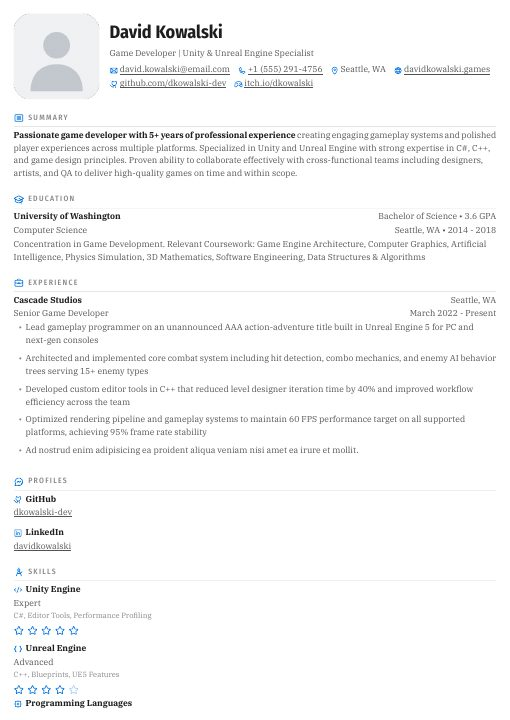
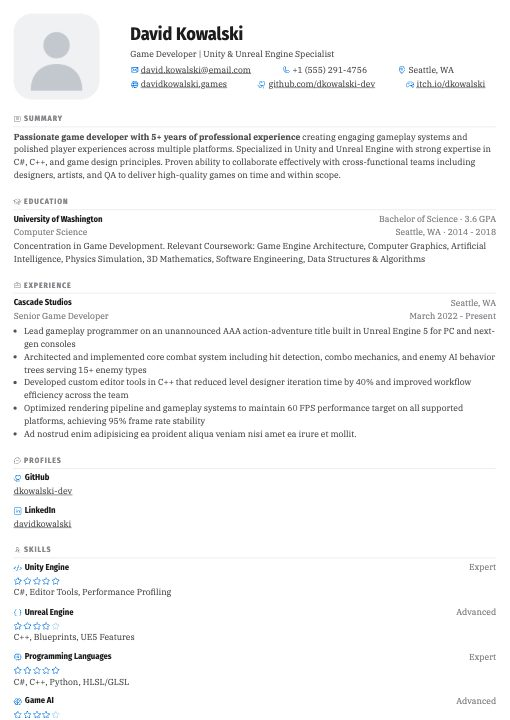
feat(resume-studio): port all classic templates to the HTML engine
The remaining thirteen classic templates (bronzor, chikorita, ditgar, ditto, gengar, glalie, kakuna, lapras, leafish, meowth, pikachu, rhyhorn, scizor) now have HTML versions checked side by side against their react-pdf output, so every template renders through HTML in preview and export.

Full-bleed bands and sidebars could not reach the paper edge through @page margins, and templates were each working around it differently, which also broke the one-page fit (it assumed fixed top and bottom margins). The engine now sets @page margin to 0 and carries all margins as .page padding (cloned per printed page), and fit compares content plus measured .page padding with the paper height. Screen preview and print share one geometry, and all 27 templates x 3 content sizes print to exactly one page in Chrome. Template thumbnails are regenerated from the HTML engine.

diff --git a/shell/src/renderer/components/resume-workbench/HtmlPreview.tsx b/shell/src/renderer/components/resume-workbench/HtmlPreview.tsx
@@ -6,7 +6,7 @@
 import { useEffect, useRef, useState } from 'react';
 
 import type { ResumeData } from '@career/resume-studio/schema';
-import { availableHeightPx, buildResumeHtml, fitOnePage, PAGE_SIZE_MM, requiredFonts, type FitScales, type FontRequirement } from '@career/resume-studio/html';
+import { applyAndMeasure, buildResumeHtml, fitOnePage, PAGE_SIZE_MM, paperHeightPx, requiredFonts, type FitScales, type FontRequirement } from '@career/resume-studio/html';
 
 import { prepareFonts } from './studioFonts';
 
@@ -56,13 +56,7 @@ function swapDocument(doc: Document, html: string): void {
   for (const { name, value } of Array.from(next.body.attributes)) doc.body.setAttribute(name, value);
 }
 
-function applyScales(doc: Document, s: FitScales): number {
-  doc.documentElement.style.setProperty('--fs', String(s.font));
-  doc.documentElement.style.setProperty('--sp', String(s.space));
-  return doc.querySelector('.content')?.getBoundingClientRect().height ?? 0;
-}
-
-type Layout = { height: number; pages: number; pageHeightPx: number; marginTopPx: number };
+type Layout = { height: number; pages: number; pageHeightPx: number };
 
 async function layoutResume(iframe: HTMLIFrameElement, data: ResumeData): Promise<Layout | null> {
   const win = iframe.contentWindow as (Window & typeof globalThis) | null;
@@ -72,15 +66,14 @@ async function layoutResume(iframe: HTMLIFrameElement, data: ResumeData): Promis
   await injectFonts(win, requiredFonts(data));
   await win.document.fonts.ready;
   const size = PAGE_SIZE_MM[data.metadata.page.format === 'letter' ? 'letter' : 'a4'];
-  const available = availableHeightPx(size.height, data.metadata.page.marginY);
-  const scales = data.metadata.page.autoFit ? await fitOnePage(s => applyScales(win.document, s), available) : { font: 1, space: 1 };
-  const contentHeight = applyScales(win.document, scales);
+  const paper = paperHeightPx(size.height);
+  const scales: FitScales = data.metadata.page.autoFit ? await fitOnePage(s => applyAndMeasure(win.document, s), paper) : { font: 1, space: 1 };
+  const used = applyAndMeasure(win.document, scales);
   const page = win.document.querySelector('.page');
   return {
-    height: page?.getBoundingClientRect().height ?? contentHeight,
-    pages: Math.max(1, Math.ceil(contentHeight / available - 0.001)),
-    pageHeightPx: available,
-    marginTopPx: (data.metadata.page.marginY * 4) / 3,
+    height: page?.getBoundingClientRect().height ?? used,
+    pages: Math.max(1, Math.ceil(used / paper - 0.001)),
+    pageHeightPx: paper,
   };
 }
 
@@ -142,7 +135,7 @@ export function HtmlPreview({ data, zoom, onPages, thumbnail = false }: {
         {frame}
         {layout && Array.from({ length: layout.pages - 1 }, (_, i) => (
           <div key={i} aria-hidden className="pointer-events-none absolute inset-x-0 border-t border-dashed border-[var(--danger)]/60"
-            style={{ top: (layout.marginTopPx + (i + 1) * layout.pageHeightPx) * scale }}>
+            style={{ top: (i + 1) * layout.pageHeightPx * scale }}>
             <span className="absolute right-1 top-0.5 text-[10px] text-[var(--danger)]">第 {i + 2} 页</span>
           </div>
         ))}

diff --git a/packages/resume-studio/src/html/classic/gengar.ts b/packages/resume-studio/src/html/classic/gengar.ts
@@ -1,4 +1,43 @@
 import type { HtmlTemplate } from "../templates";
 
-/** gengar 的 HTML 版（待迁移：对照 pdf/templates/gengar/）。null = 仍走 react-pdf。 */
-export const gengar: HtmlTemplate | null = null;
+/**
+ * Gengar / Ditgar 共用的「色块侧栏」版式：
+ * - 左侧栏整列浅主色底（主色 20%），要撑满整页：屏幕上画在 .page，打印时画在根元素（根背景铺满整张纸）；
+ *   打印时 Chrome 会裁掉伸进 @page 页边的内容，所以 @page 页边归零，左右留白改由各栏内边距承担。
+ * - 页眉放侧栏顶部：主色色块、白字、照片在上、联系方式竖排。
+ * - 主栏里的「个人总结」提到最上方，浅主色底、不显示标题（旧实现的 featured summary）。
+ * - 分区标题主色、0.9 倍字号、下方主色细线；侧栏条目的左右两栏改为上下堆叠。
+ */
+export const SIDE_PANEL_CSS = `
+@page { margin: 0; }
+:root { --tint: color-mix(in srgb, var(--primary) 20%, var(--bg)); --panel: linear-gradient(to right, var(--tint) var(--sidebar-w), var(--bg) var(--sidebar-w)); }
+.page { background: var(--panel); }
+@media print { html { background: var(--panel); } }
+.columns.sidebar-left { column-gap: 0; }
+.sidebar > .section { padding: 0 var(--margin-x); }
+.sidebar > .section:first-child { padding-top: var(--margin-y); }
+.header { flex-direction: column; align-items: flex-start; row-gap: calc(var(--gap-y) * 0.5); background: var(--primary); padding: var(--margin-y) var(--margin-x); }
+.header .name, .header .headline, .header .contacts, .header .contact .icon { color: var(--bg); }
+.header .contacts { flex-direction: column; }
+.main { padding: var(--margin-y) var(--margin-x) 0; }
+.main:has(> .section[data-id="summary"]) { padding-top: 0; }
+.main > .section[data-id="summary"] { order: -1; background: var(--tint); margin: 0 calc(-1 * var(--margin-x)); padding: var(--margin-y) var(--margin-x); }
+.main > .section[data-id="summary"] .section-title { display: none; }
+.section-title { font-size: calc(var(--heading-size) * 0.9); color: var(--primary); border-bottom: 1px solid var(--primary); padding-bottom: calc(var(--gap-y) * 0.125); }
+.sidebar .icon { color: var(--text); }
+.sidebar .row { flex-direction: column; align-items: flex-start; }
+.sidebar .aside { text-align: left; margin-left: 0; }`;
+
+/** Gengar：色块侧栏版式，整页无上下页边。 */
+export const gengar: HtmlTemplate = {
+	layout: "sidebar-left",
+	header: "sidebar",
+	css: `${SIDE_PANEL_CSS}
+.page { padding: 0; }
+.sidebar, .main { padding-bottom: var(--margin-y); }
+.header .contacts { row-gap: calc(var(--gap-y) * 0.25); }
+.sidebar .section[data-section="skills"] .item-head, .sidebar .section[data-section="skills"] .item-head .row { display: contents; }
+.sidebar .section[data-section="skills"] .level { order: 1; }
+.sidebar .section[data-section="skills"] .aside { order: 2; }
+.sidebar .section[data-section="skills"] .keywords { order: 3; }`,
+};

diff --git a/packages/resume-studio/src/html/fit.ts b/packages/resume-studio/src/html/fit.ts
@@ -41,9 +41,23 @@ export async function fitOnePage(measure: Measure, available: number): Promise<F
 	return { font: await maxFitting(1, MAX_FONT, (v) => ({ font: v, space: MAX_SPACE }), measure, limit), space: MAX_SPACE };
 }
 
-/** 页面里执行：设置比例并返回内容高度（px）。导出时序列化成字符串在 Chrome 里跑，故不引用外部变量。 */
-export const MEASURE_SNIPPET = (s: FitScales) =>
-	`(() => { const r = document.documentElement.style; r.setProperty('--fs', '${s.font}'); r.setProperty('--sp', '${s.space}'); return document.querySelector('.content').getBoundingClientRect().height; })()`;
+/**
+ * 设置比例并返回一页需要的高度（px）= 内容高 + .page 上下内边距（页边距全在 .page 内边距里，见 document.ts）。
+ * 渲染层直接调用（CSP 不允许 eval）；导出在 Chrome 里跑同一逻辑的字符串版 MEASURE_SNIPPET，两份须一致（有测试对照）。
+ */
+export function applyAndMeasure(doc: Document, s: FitScales): number {
+	doc.documentElement.style.setProperty("--fs", String(s.font));
+	doc.documentElement.style.setProperty("--sp", String(s.space));
+	const page = doc.querySelector(".page");
+	const content = doc.querySelector(".content");
+	if (!page || !content) return 0;
+	const cs = doc.defaultView?.getComputedStyle(page);
+	const pad = cs ? Number.parseFloat(cs.paddingTop) + Number.parseFloat(cs.paddingBottom) : 0;
+	return content.getBoundingClientRect().height + pad;
+}
 
-/** 可用内容高度（CSS px，96dpi）：纸高减上下页边距。 */
-export const availableHeightPx = (pageHeightMm: number, marginYPt: number) => (pageHeightMm * 72) / 25.4 / 0.75 - (2 * marginYPt) / 0.75;
+export const MEASURE_SNIPPET = (s: FitScales) =>
+	`(() => { const d = document; d.documentElement.style.setProperty('--fs', '${s.font}'); d.documentElement.style.setProperty('--sp', '${s.space}'); const p = d.querySelector('.page'); const c = d.querySelector('.content'); if (!p || !c) return 0; const cs = getComputedStyle(p); return c.getBoundingClientRect().height + parseFloat(cs.paddingTop) + parseFloat(cs.paddingBottom); })()`;
+
+/** 纸高（CSS px，96dpi）。 */
+export const paperHeightPx = (pageHeightMm: number) => (pageHeightMm / 25.4) * 96;

diff --git a/packages/resume-studio/src/html/classic/ditto.ts b/packages/resume-studio/src/html/classic/ditto.ts
@@ -1,4 +1,41 @@
 import type { HtmlTemplate } from "../templates";
 
-/** ditto 的 HTML 版（待迁移：对照 pdf/templates/ditto/）。null = 仍走 react-pdf。 */
-export const ditto: HtmlTemplate | null = null;
+/**
+ * Ditto：顶部整宽主色横幅（姓名 + 头衔，白字），照片居中压在侧栏宽度的横幅左段、向下叠出；
+ * 联系方式在横幅下方、与主栏对齐；左侧栏、无侧栏底色，分区标题主色。
+ *
+ * 横幅要撑满整张纸，而打印时 Chrome 会裁掉伸进 @page 页边的内容，所以本模板把 @page 页边归零、
+ * 由 .page 自己留底边；左右页边改为侧栏左内边距与主栏右内边距。
+ */
+export const ditto: HtmlTemplate = {
+	layout: "sidebar-left",
+	css: `
+@page { margin: 0; }
+.page { padding: 0 0 var(--margin-y); }
+.header {
+  display: grid; grid-template-columns: var(--sidebar-w) 1fr; align-items: start;
+  column-gap: 0; row-gap: 0; position: relative;
+}
+.header .identity { grid-column: 2; row-gap: 0; }
+.header .name, .header .headline {
+  background: var(--primary); color: var(--bg);
+  box-shadow: 0 0 0 100vmax var(--primary); clip-path: inset(0 -100vmax);
+  padding: 0 var(--margin-x);
+}
+.header .name { padding-top: var(--margin-y); clip-path: inset(0 -100vmax -1px); }
+.header .headline, .header .name:has(+ .contacts) { padding-bottom: var(--margin-y); }
+.header .headline { padding-top: calc(var(--gap-y) * 0.35); }
+.header .contacts { padding: var(--margin-y) var(--margin-x) 0; column-gap: calc(var(--gap-x) * 2 / 3); row-gap: calc(var(--gap-y) * 0.125); }
+.header .photo {
+  grid-column: 1; grid-row: 1; justify-self: center; position: relative; z-index: 1;
+  margin-top: calc(var(--margin-y) * 0.75); margin-bottom: -1000pt;
+}
+.header .identity { grid-row: 1; }
+.columns.sidebar-left { column-gap: 0; }
+.sidebar { padding-left: var(--margin-x); }
+.header:has(.photo) + .columns .sidebar { padding-top: var(--margin-y); }
+.main { padding: 0 var(--margin-x) 0 var(--margin-x); }
+.section-title { color: var(--primary); }
+.sidebar .row { flex-direction: column; align-items: flex-start; }
+.sidebar .aside { text-align: left; margin-left: 0; }`,
+};

diff --git a/packages/resume-studio/src/html/classic/glalie.ts b/packages/resume-studio/src/html/classic/glalie.ts
@@ -1,4 +1,31 @@
 import type { HtmlTemplate } from "../templates";
 
-/** glalie 的 HTML 版（待迁移：对照 pdf/templates/glalie/）。null = 仍走 react-pdf。 */
-export const glalie: HtmlTemplate | null = null;
+/** 侧栏底色：主色 20% 调到底色上，与旧版 getPrimaryTint(0.2) 一致。 */
+const TINT = "color-mix(in srgb, var(--primary) 20%, var(--bg))";
+const STRIP = `linear-gradient(${TINT}, ${TINT}) left top / var(--sidebar-w) 100% repeat-y, var(--bg)`;
+
+/**
+ * Glalie：左侧栏整列浅主色底（贯穿纸面上下左边），页眉居中放在侧栏顶部，
+ * 联系方式竖排在主色细框里；分区标题主色带主色下划线；侧栏条目抬头竖排。
+ *
+ * 整列底色要贴纸边，而打印时页边距区会被裁掉：所以页边距归零，左右留白改成两栏各自的内边距
+ * （与旧版一样，侧栏宽 = 纸宽 × --sidebar-w，含内边距），上下留白由 .page 的内边距按页克隆。
+ * 底色打印时画在根元素背景上（每页都铺满），屏幕上画在 .page 上。
+ */
+export const glalie: HtmlTemplate = {
+	layout: "sidebar-left",
+	header: "sidebar",
+	css: `
+@page { margin: 0; }
+.page { padding: var(--margin-y) 0; box-decoration-break: clone; -webkit-box-decoration-break: clone; }
+@media print { html { background: ${STRIP}; } body, .page { background: transparent; } }
+@media screen { .page { background: ${STRIP}; } }
+.columns.sidebar-left { column-gap: 0; }
+.sidebar, .main { padding: 0 var(--margin-x); }
+.header { flex-direction: column; text-align: center; row-gap: calc(var(--gap-y) * 0.5); }
+.header .identity { width: 100%; align-items: center; }
+.header .contacts { flex-direction: column; align-items: flex-start; width: 100%; text-align: left; border: 1px solid var(--primary); padding: calc(var(--gap-x) * 0.75); row-gap: 2pt; }
+.section-title { color: var(--primary); border-bottom: 1px solid var(--primary); }
+.sidebar .row { flex-direction: column; }
+.sidebar .aside { text-align: left; margin-left: 0; }`,
+};

diff --git a/packages/resume-studio/src/html/classic/chikorita.ts b/packages/resume-studio/src/html/classic/chikorita.ts
@@ -1,4 +1,29 @@
 import type { HtmlTemplate } from "../templates";
 
-/** chikorita 的 HTML 版（待迁移：对照 pdf/templates/chikorita/）。null = 仍走 react-pdf。 */
-export const chikorita: HtmlTemplate | null = null;
+const STRIP = "linear-gradient(var(--primary), var(--primary)) right top / var(--sidebar-w) 100% repeat-y, var(--bg)";
+
+/**
+ * Chikorita：主栏在左（页眉在主栏顶部），右侧栏整列主色底（贯穿纸面上下右边），
+ * 侧栏里文字、标题、星级都改用底色；分区标题略小、带同色下划线；侧栏条目抬头竖排。
+ *
+ * 整列底色要贴纸边，而打印时页边距区会被裁掉：所以页边距归零，左右留白改成两栏各自的内边距
+ * （与旧版一样，侧栏宽 = 纸宽 × --sidebar-w，含内边距），上下留白由 .page 的内边距按页克隆。
+ * 底色打印时画在根元素背景上（每页都铺满），屏幕上画在 .page 上。
+ */
+export const chikorita: HtmlTemplate = {
+	layout: "sidebar-right",
+	header: "main",
+	css: `
+@page { margin: 0; }
+.page { padding: var(--margin-y) 0; box-decoration-break: clone; -webkit-box-decoration-break: clone; }
+@media print { html { background: ${STRIP}; } body, .page { background: transparent; } }
+@media screen { .page { background: ${STRIP}; } }
+.columns.sidebar-right { column-gap: 0; }
+.sidebar, .main { padding: 0 var(--margin-x); }
+.header { align-items: flex-start; column-gap: calc(var(--gap-x) * 0.5); }
+.section-title { font-size: calc(var(--heading-size) * 0.85); color: var(--primary); border-bottom: 1px solid var(--primary); padding-bottom: calc(var(--gap-y) * 0.125); margin-bottom: calc(var(--gap-y) * 0.375); }
+.sidebar { --primary: var(--bg); --ink: var(--bg); --text: var(--bg); --muted: color-mix(in srgb, var(--bg) 85%, transparent); color: var(--text); }
+.sidebar .row { flex-direction: column; }
+.sidebar .aside { text-align: left; margin-left: 0; }
+.level { width: 70%; }`,
+};

diff --git a/packages/resume-studio/src/html/document.ts b/packages/resume-studio/src/html/document.ts
@@ -60,7 +60,7 @@ function baseCss(data: ResumeData): string {
 	const m = data.metadata;
 	const size = PAGE_SIZE_MM[m.page.format === "letter" ? "letter" : "a4"];
 	return `
-@page { size: ${size.width}mm ${size.height}mm; margin: ${m.page.marginY}pt ${m.page.marginX}pt; }
+@page { size: ${size.width}mm ${size.height}mm; margin: 0; }
 :root {
   --fs: 1; --sp: 1;
   --primary: ${m.design.colors.primary}; --text: ${m.design.colors.text}; --ink: var(--text); --muted: color-mix(in srgb, var(--text) 62%, white);
@@ -73,9 +73,10 @@ function baseCss(data: ResumeData): string {
 * { box-sizing: border-box; margin: 0; padding: 0; }
 html { background: var(--bg); -webkit-print-color-adjust: exact; print-color-adjust: exact; }
 body { font-family: ${fontStack(data, m.typography.body.fontFamily)}; font-size: var(--body-size); line-height: ${m.typography.body.lineHeight}; color: var(--text); background: var(--bg); line-break: strict; overflow-wrap: anywhere; }
-.page { width: ${size.width}mm; padding: ${m.page.marginY}pt ${m.page.marginX}pt; background: var(--bg); }
+/* 页边距统一由 .page 内边距承担（@page 为 0），屏幕与打印同一套几何；clone 让分页后每页都重复上下留白。
+   模板要让色块贴纸边，就改 .page 的内边距；排满一页按「内容高 + .page 上下内边距」对比纸高（fit.ts）。 */
+.page { width: ${size.width}mm; padding: ${m.page.marginY}pt ${m.page.marginX}pt; background: var(--bg); box-decoration-break: clone; -webkit-box-decoration-break: clone; }
 @media screen { .page { min-height: ${size.height}mm; } }
-@media print { .page { width: auto; padding: 0; } }
 .content { display: flex; flex-direction: column; row-gap: var(--margin-y); }
 .header { display: flex; align-items: center; column-gap: calc(var(--gap-x) * 3); row-gap: var(--gap-y); }
 .identity { flex: 1; min-width: 0; display: flex; flex-direction: column; row-gap: calc(var(--gap-y) * 0.35); }

diff --git a/packages/resume-studio/src/html/html.test.ts b/packages/resume-studio/src/html/html.test.ts
@@ -1,6 +1,7 @@
 import { describe, expect, it } from "vitest";
 import { BRAND_TEMPLATES } from "../pdf/templates/brand/brands";
 import { sampleResumeData } from "../schema/resume/sample";
+import { templateSchema } from "../schema/templates";
 import { buildResumeHtml } from "./document";
 import { FILL_TARGET, fitOnePage, MAX_FONT, MAX_SPACE, MIN_FONT, type FitScales } from "./fit";
 import { sanitizeRichText } from "./sanitize";
@@ -58,7 +59,7 @@ describe("buildResumeHtml", () => {
 		return data;
 	};
 
-	it.each(["onyx", "azurill", ...BRAND_TEMPLATES])("%s 生成完整文档并含各分区", (template) => {
+	it.each([...templateSchema.options])("%s 生成完整文档并含各分区", (template) => {
 		const html = buildResumeHtml(withTemplate(template));
 		expect(html).toContain("<!doctype html>");
 		expect(html).toContain(`data-template="${template}"`);
@@ -66,8 +67,17 @@ describe("buildResumeHtml", () => {
 		expect(html).toContain(sampleResumeData.basics.name);
 	});
 
-	it("还没有 HTML 版的模板返回 null（迁移期回落 react-pdf）", () => {
-		expect(buildResumeHtml(withTemplate("pikachu"))).toBeNull();
+	it("所有模板都有 HTML 版（迁移完成，不再回落 react-pdf）", () => {
+		const missing = templateSchema.options.filter((t) => buildResumeHtml(withTemplate(t)) === null);
+		expect(missing).toEqual([]);
+	});
+
+	it("页边距只由 .page 内边距承担：@page 页边距为 0，屏幕与打印同一套几何", () => {
+		for (const t of templateSchema.options) {
+			const html = buildResumeHtml(withTemplate(t)) ?? "";
+			expect(html, t).toMatch(/@page \{ size: [\d.]+mm [\d.]+mm; margin: 0; \}/);
+			expect(html, t).not.toMatch(/@page\s*(:first\s*)?\{[^}]*margin-(top|left|right|bottom)/);
+		}
 	});
 
 	it("姓名等纯文本字段转义，不能注入标签", () => {

diff --git a/packages/resume-studio/src/html/classic/meowth.ts b/packages/resume-studio/src/html/classic/meowth.ts
@@ -1,4 +1,18 @@
 import type { HtmlTemplate } from "../templates";
 
-/** meowth 的 HTML 版（待迁移：对照 pdf/templates/meowth/）。null = 仍走 react-pdf。 */
-export const meowth: HtmlTemplate | null = null;
+/** Meowth：照片在页眉右侧，单列；分区标题大写、主色，下方主色细线。 */
+export const meowth: HtmlTemplate = {
+	layout: "stack",
+	css: `
+.header { align-items: flex-start; column-gap: var(--gap-x); }
+.header .photo { order: 2; }
+.headline { opacity: 0.8; }
+.section-title { color: var(--primary); text-transform: uppercase; border-bottom: 1px solid var(--primary); padding-bottom: calc(var(--gap-y) * 0.125); }
+/* 经历 / 教育的条目头排成一行三段：职位|专业 · 公司|学校（粗体）· 时间；地点 / 学位挪到第二行 */
+:is([data-section="experience"], [data-section="education"]) > .items > .item > .item-head { display: grid; grid-template-columns: minmax(0, 1fr) minmax(0, 1fr) auto; column-gap: calc(var(--gap-x) * 0.75); }
+:is([data-section="experience"], [data-section="education"]) > .items > .item > .item-head > .row { display: contents; }
+:is([data-section="experience"], [data-section="education"]) > .items > .item > .item-head > .row:first-child > .primary { grid-row: 1; grid-column: 2; }
+:is([data-section="experience"], [data-section="education"]) > .items > .item > .item-head > .row:first-child > .aside { grid-row: 2; grid-column: 1 / -1; text-align: left; margin: 0; }
+:is([data-section="experience"], [data-section="education"]) > .items > .item > .item-head > .row:nth-child(2) > .secondary { grid-row: 1; grid-column: 1; color: var(--text); }
+:is([data-section="experience"], [data-section="education"]) > .items > .item > .item-head > .row:nth-child(2) > .aside { grid-row: 1; grid-column: 3; color: var(--text); }`,
+};

diff --git a/packages/resume-studio/src/html/classic/leafish.ts b/packages/resume-studio/src/html/classic/leafish.ts
@@ -1,4 +1,23 @@
 import type { HtmlTemplate } from "../templates";
 
-/** leafish 的 HTML 版（待迁移：对照 pdf/templates/leafish/）。null = 仍走 react-pdf。 */
-export const leafish: HtmlTemplate | null = null;
+/**
+ * Leafish：通栏页眉（主色 10% 底）+ 联系方式色带（主色 20% 底），主栏在左、侧栏在右，
+ * 分区标题主色带主色下划线。
+ */
+export const leafish: HtmlTemplate = {
+	layout: "sidebar-right",
+	// 页眉色块要贴到纸边：去掉 .page 的上、左、右内边距（引擎的 @page 页边距为 0），
+	// 改由 .header / .columns 自己留白。
+	css: `
+.page { padding: 0 0 var(--margin-y); }
+.columns { padding: 0 var(--margin-x); }
+.header { padding: var(--margin-y) var(--margin-x) 0; background: color-mix(in srgb, var(--primary) 10%, var(--bg)); display: grid; grid-template-columns: 1fr; align-items: center; }
+.header:has(.photo) { grid-template-columns: auto 1fr; }
+.header .identity { display: contents; }
+.header .photo { grid-row: 1 / 3; }
+.header:has(.photo) .name, .header:has(.photo) .headline { grid-column: 2; }
+.header .name { align-self: end; }
+.header .headline { align-self: start; }
+.header .contacts { grid-column: 1 / -1; margin: 0 calc(-1 * var(--margin-x)); padding: var(--margin-y) var(--margin-x); column-gap: var(--gap-x); background: color-mix(in srgb, var(--primary) 20%, var(--bg)); }
+.section-title { color: var(--primary); border-bottom: 1px solid var(--primary); }`,
+};

diff --git a/packages/resume-studio/src/html/classic/scizor.ts b/packages/resume-studio/src/html/classic/scizor.ts
@@ -1,4 +1,17 @@
 import type { HtmlTemplate } from "../templates";
 
-/** scizor 的 HTML 版（待迁移：对照 pdf/templates/scizor/）。null = 仍走 react-pdf。 */
-export const scizor: HtmlTemplate | null = null;
+/** Scizor：纸张顶端主色粗条，大号姓名下一道灰色短线，照片在右；分区上方灰色分隔线、标题大写加粗。 */
+export const scizor: HtmlTemplate = {
+	layout: "stack",
+	css: `
+/* 引擎的 @page 页边距为 0，根元素背景从纸边开始画，顶条直接贴住纸边（屏幕与打印同一份） */
+html { background: linear-gradient(var(--primary), var(--primary)) 0 0 / 100% calc(var(--gap-y) * 0.45) no-repeat, var(--bg); }
+body, .page { background: transparent; }
+.header { align-items: flex-start; column-gap: var(--gap-x); padding-bottom: calc(var(--gap-y) * 0.35); }
+.header .photo { order: 2; }
+.identity { row-gap: calc(var(--gap-y) * 0.45); }
+.name { font-size: calc(var(--heading-size) * 1.85); font-weight: 700; }
+.name::after { content: ""; display: block; width: 72%; border-bottom: 2px solid #D8DCE2; margin-top: calc(var(--gap-y) * 0.45); }
+.section { border-top: 1px solid #D8DCE2; padding-top: calc(var(--gap-y) * 0.65); }
+.section-title { font-size: calc(var(--heading-size) * 0.9); font-weight: 700; text-transform: uppercase; color: var(--ink); }`,
+};

diff --git a/packages/resume-studio/src/html/classic/pikachu.ts b/packages/resume-studio/src/html/classic/pikachu.ts
@@ -1,4 +1,20 @@
 import type { HtmlTemplate } from "../templates";
 
-/** pikachu 的 HTML 版（待迁移：对照 pdf/templates/pikachu/）。null = 仍走 react-pdf。 */
-export const pikachu: HtmlTemplate | null = null;
+/**
+ * Pikachu：照片在左侧栏顶部，页眉是主栏顶部的一块主色圆角色块（字用底色），
+ * 姓名 / 职位与联系方式之间一条底色细线；分区标题主色带主色下划线；侧栏条目抬头竖排。
+ */
+export const pikachu: HtmlTemplate = {
+	layout: "sidebar-left",
+	header: "main",
+	photo: "sidebar",
+	css: `
+.header { background: var(--primary); border-radius: 4pt; padding: var(--margin-y) var(--margin-x); }
+.header .identity { row-gap: calc(var(--gap-y) * 0.5); }
+.header .name, .header .headline, .header .contact, .header .contact .icon { color: var(--bg); }
+.header .contacts { border-top: 1px solid var(--bg); padding-top: calc(var(--gap-y) * 0.5); column-gap: calc(var(--gap-x) * 0.75); }
+.sidebar > .photo { align-self: flex-start; }
+.section-title { color: var(--primary); border-bottom: 1px solid var(--primary); }
+.sidebar .row { flex-direction: column; }
+.sidebar .aside { text-align: left; margin-left: 0; }`,
+};
